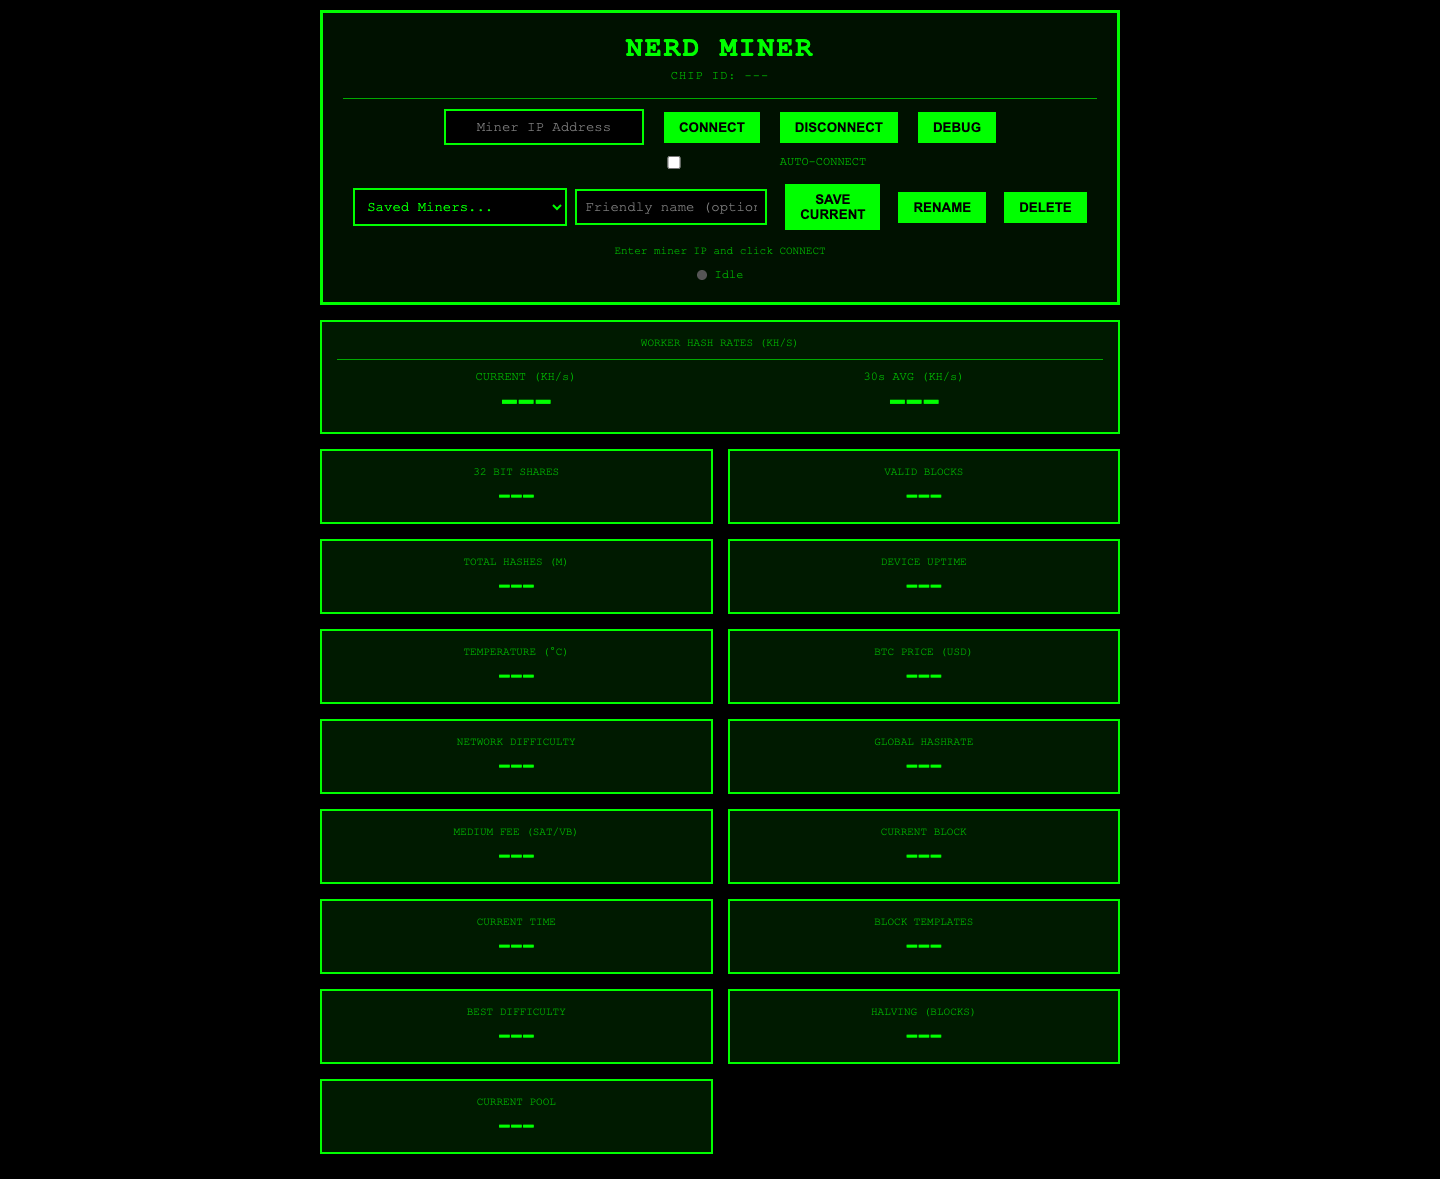
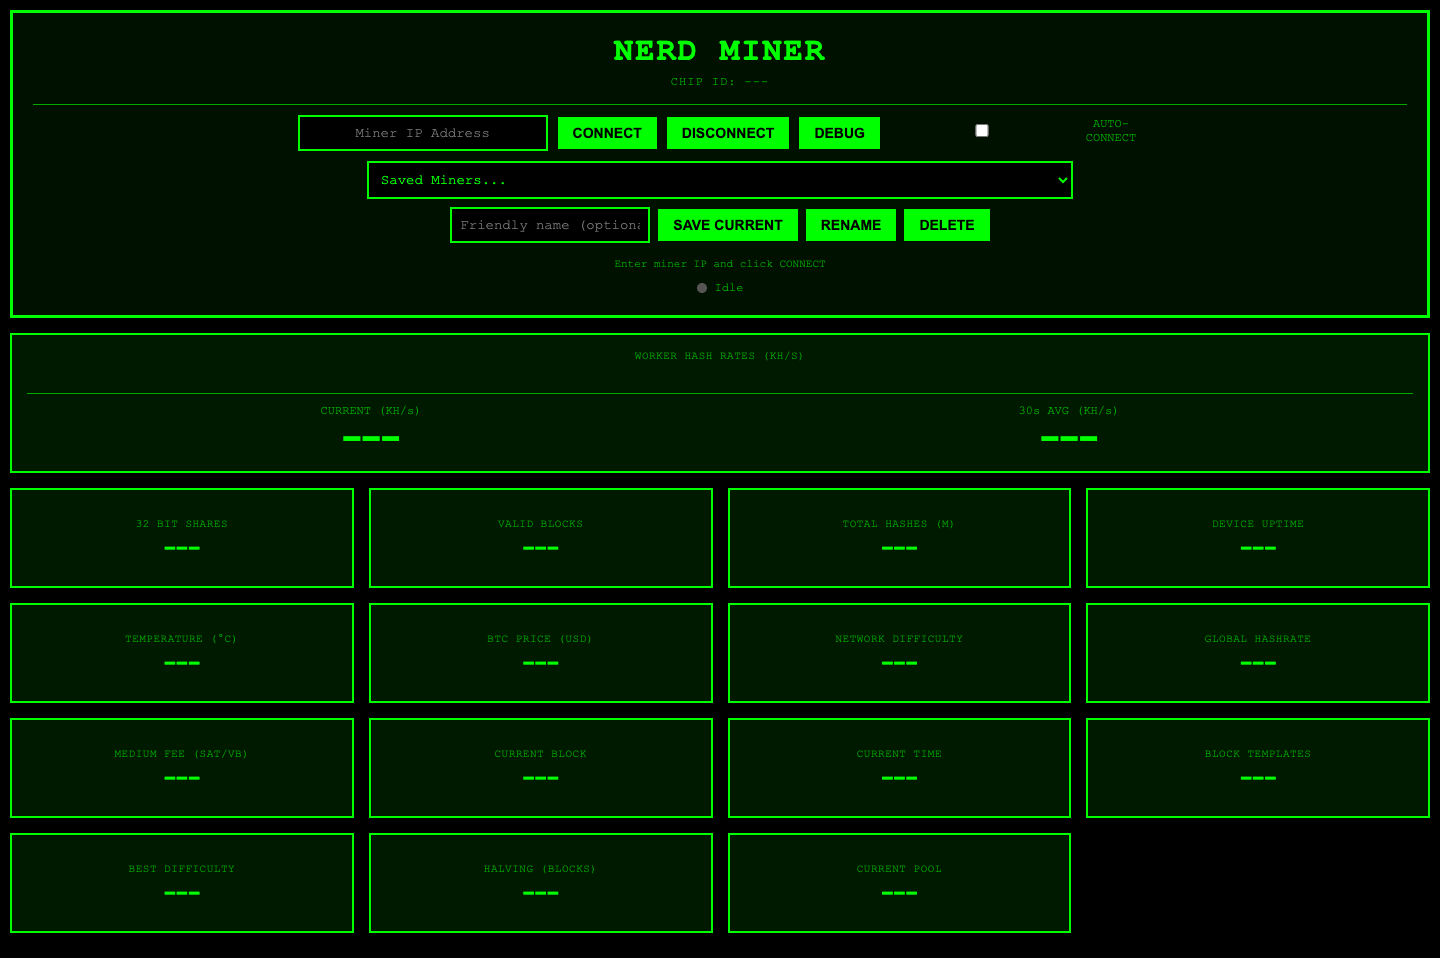
Feat: optimize dashboard for mobile and desktop responsiveness
- Add fluid typography with clamp() for all text sizes
- Implement responsive grid layouts (1-4 columns based on screen size)
- Add touch-friendly button sizing for mobile devices
- Improve button/input wrapping on small screens
- Add tablet landscape optimizations
- Support large desktop layouts (1600px+)
- Update screenshots showing responsive design

diff --git a/web/nerdminer-dashboard.html b/web/nerdminer-dashboard.html
@@ -6,45 +6,71 @@
     <title>NerdMiner Dashboard</title>
     <style>
         *{margin:0;padding:0;box-sizing:border-box}
-        body{font-family:'Courier New',monospace;background:#000;color:#0f0;padding:10px}
-        .container{max-width:800px;margin:0 auto}
+        body{font-family:'Courier New',monospace;background:#000;color:#0f0;padding:10px;overflow-x:hidden}
+        .container{max-width:1400px;margin:0 auto}
         .header{text-align:center;padding:20px;border:3px solid #0f0;margin-bottom:15px;background:#001100}
-        .header h1{font-size:28px;margin-bottom:5px;letter-spacing:2px}
-        .header .chipid{font-size:12px;color:#0a0;letter-spacing:1px}
-        .header .ip-config{margin-top:15px;padding:10px;border-top:1px solid #0a0;display:flex;justify-content:center;align-items:center;gap:10px}
+        .header h1{font-size:clamp(20px, 5vw, 32px);margin-bottom:5px;letter-spacing:2px}
+        .header .chipid{font-size:clamp(10px, 2vw, 12px);color:#0a0;letter-spacing:1px}
         .header .ip-config{margin-top:15px;padding:10px;border-top:1px solid #0a0;display:flex;justify-content:center;align-items:center;gap:10px;flex-wrap:wrap}
-        .header input{background:#000;color:#0f0;border:2px solid #0f0;padding:8px;font-family:'Courier New',monospace;width:200px;text-align:center}
-        .header button{background:#0f0;color:#000;border:none;padding:8px 15px;margin-left:10px;cursor:pointer;font-weight:bold}
+        .header input{background:#000;color:#0f0;border:2px solid #0f0;padding:8px;font-family:'Courier New',monospace;min-width:160px;max-width:250px;text-align:center;font-size:clamp(12px, 2vw, 14px)}
+        .header button{background:#0f0;color:#000;border:none;padding:8px 15px;cursor:pointer;font-weight:bold;font-size:clamp(11px, 2vw, 14px);white-space:nowrap}
         .header button:hover{background:#0ff}
-        .autoconnect{display:flex;align-items:center;gap:6px;font-size:12px;color:#0a0}
-        .saved{display:flex;align-items:center;gap:8px}
-        .saved select{background:#000;color:#0f0;border:2px solid #0f0;padding:8px;font-family:'Courier New',monospace;}
-        .saved input{background:#000;color:#0f0;border:2px solid #0f0;padding:8px;font-family:'Courier New',monospace;width:200px}
-        .status{text-align:center;padding:5px;font-size:11px;color:#0a0}
+        .autoconnect{display:flex;align-items:center;gap:6px;font-size:clamp(10px, 2vw, 12px);color:#0a0}
+        .saved{display:flex;align-items:center;gap:8px;flex-wrap:wrap;justify-content:center}
+        .saved select{background:#000;color:#0f0;border:2px solid #0f0;padding:8px;font-family:'Courier New',monospace;font-size:clamp(11px, 2vw, 14px)}
+        .saved input{background:#000;color:#0f0;border:2px solid #0f0;padding:8px;font-family:'Courier New',monospace;min-width:140px;max-width:200px;font-size:clamp(11px, 2vw, 14px)}
+        .status{text-align:center;padding:5px;font-size:clamp(10px, 2vw, 11px);color:#0a0}
         .status.error{color:#f00}
-        .health{display:flex;justify-content:center;align-items:center;gap:8px;margin-top:6px;font-size:12px;color:#0a0}
+        .health{display:flex;justify-content:center;align-items:center;gap:8px;margin-top:6px;font-size:clamp(11px, 2vw, 12px);color:#0a0}
         .health-dot{width:10px;height:10px;border-radius:50%;display:inline-block;background:#555}
         .health-dot.ok{background:#0f0}
         .health-dot.bad{background:#f00}
-        .debug{margin-top:10px;border:2px dashed #0a0;padding:10px;font-size:11px;color:#0a0;background:#000}
-        .debug pre{white-space:pre-wrap;word-wrap:break-word;color:#0f0}
-        .dashboard{display:grid;grid-template-columns:1fr 1fr;gap:15px;margin-bottom:15px}
-        .stat-box{border:2px solid #0f0;padding:15px;background:#001a00;text-align:center}
+        .debug{margin-top:10px;border:2px dashed #0a0;padding:10px;font-size:clamp(10px, 2vw, 11px);color:#0a0;background:#000}
+        .debug pre{white-space:pre-wrap;word-wrap:break-word;color:#0f0;font-size:clamp(9px, 1.8vw, 11px)}
+        .dashboard{display:grid;grid-template-columns:repeat(auto-fit, minmax(280px, 1fr));gap:15px;margin-bottom:15px}
+        .stat-box{border:2px solid #0f0;padding:15px;background:#001a00;text-align:center;min-height:100px;display:flex;flex-direction:column;justify-content:center}
         .stat-box.large{grid-column:1/-1}
-        .stat-label{font-size:11px;color:#0a0;margin-bottom:5px;text-transform:uppercase}
-        .stat-value{font-size:36px;font-weight:bold;color:#0f0;font-family:monospace}
-        .stat-value.mega{font-size:48px}
-        .stat-small{font-size:20px}
+        .stat-label{font-size:clamp(10px, 2vw, 11px);color:#0a0;margin-bottom:5px;text-transform:uppercase;letter-spacing:0.5px}
+        .stat-value{font-size:clamp(24px, 5vw, 36px);font-weight:bold;color:#0f0;font-family:monospace;line-height:1.2}
+        .stat-value.mega{font-size:clamp(32px, 7vw, 48px)}
+        .stat-small{font-size:clamp(16px, 3vw, 20px)}
         .settings-panel{border:3px solid #0f0;background:#001100;padding:20px}
-        .settings-panel h2{text-align:center;margin-bottom:20px;font-size:20px;border-bottom:2px solid #0f0;padding-bottom:10px}
+        .settings-panel h2{text-align:center;margin-bottom:20px;font-size:clamp(16px, 3vw, 20px);border-bottom:2px solid #0f0;padding-bottom:10px}
         .form-group{margin-bottom:15px}
-        label{display:block;font-size:12px;margin-bottom:5px;color:#0f0;text-transform:uppercase}
-        input,select{width:100%;padding:10px;background:#000;color:#0f0;border:2px solid #0f0;font-family:'Courier New',monospace;font-size:14px}
+        label{display:block;font-size:clamp(11px, 2vw, 12px);margin-bottom:5px;color:#0f0;text-transform:uppercase}
+        input,select{width:100%;padding:10px;background:#000;color:#0f0;border:2px solid #0f0;font-family:'Courier New',monospace;font-size:clamp(12px, 2.5vw, 14px)}
         input:focus,select:focus{outline:none;border-color:#0ff;background:#001a1a}
-        .btn{width:100%;padding:15px;background:#0f0;color:#000;border:none;font-size:16px;font-weight:bold;cursor:pointer;font-family:'Courier New',monospace;text-transform:uppercase;letter-spacing:2px;margin-top:10px}
+        .btn{width:100%;padding:15px;background:#0f0;color:#000;border:none;font-size:clamp(14px, 3vw, 16px);font-weight:bold;cursor:pointer;font-family:'Courier New',monospace;text-transform:uppercase;letter-spacing:2px;margin-top:10px}
         .btn:hover{background:#0ff;box-shadow:0 0 10px #0f0}
         .checkbox-inline{display:inline-block;width:auto;margin-left:10px}
-        @media(max-width:600px){.dashboard{grid-template-columns:1fr}.stat-box.large{grid-column:1}}
+        
+        /* Mobile optimizations */
+        @media(max-width:768px){
+            body{padding:5px}
+            .header{padding:15px}
+            .header .ip-config{gap:8px}
+            .header button{padding:6px 10px}
+            .dashboard{grid-template-columns:1fr;gap:10px}
+            .stat-box{padding:12px;min-height:80px}
+            .stat-box.large{grid-column:1}
+        }
+        
+        /* Tablet landscape / Small desktop */
+        @media(min-width:769px) and (max-width:1024px){
+            .dashboard{grid-template-columns:repeat(2, 1fr)}
+        }
+        
+        /* Large desktop */
+        @media(min-width:1400px){
+            .container{max-width:1600px}
+            .dashboard{grid-template-columns:repeat(4, 1fr)}
+        }
+        
+        /* Touch-friendly targets */
+        @media(hover:none) and (pointer:coarse){
+            .header button{min-height:44px;min-width:60px}
+            input,select{min-height:44px}
+        }
     </style>
 </head>
 <body>
@@ -82,15 +108,15 @@
             <!-- Priority: Live performance first -->
             <div class='stat-box large'>
                 <div class='stat-label'>Worker Hash Rates (KH/s)</div>
-                <div id='workers' style='font-size:18px;line-height:1.4'></div>
-                <div style='margin-top:10px;padding-top:10px;border-top:1px solid #0a0;display:grid;grid-template-columns:1fr 1fr;gap:10px'>
+                <div id='workers' style='font-size:clamp(14px, 3vw, 18px);line-height:1.4;margin:8px 0'></div>
+                <div style='margin-top:10px;padding-top:10px;border-top:1px solid #0a0;display:grid;grid-template-columns:repeat(auto-fit, minmax(140px, 1fr));gap:10px'>
                     <div>
-                        <div style='font-size:12px;color:#0a0'>CURRENT (KH/s)</div>
-                        <div class='stat-value' style='font-size:28px' id='hashrate'>---</div>
+                        <div style='font-size:clamp(11px, 2vw, 12px);color:#0a0'>CURRENT (KH/s)</div>
+                        <div class='stat-value' style='font-size:clamp(22px, 5vw, 32px)' id='hashrate'>---</div>
                     </div>
                     <div>
-                        <div style='font-size:12px;color:#0a0'>30s AVG (KH/s)</div>
-                        <div class='stat-value' style='font-size:28px' id='avghashrate'>---</div>
+                        <div style='font-size:clamp(11px, 2vw, 12px);color:#0a0'>30s AVG (KH/s)</div>
+                        <div class='stat-value' style='font-size:clamp(22px, 5vw, 32px)' id='avghashrate'>---</div>
                     </div>
                 </div>
             </div>
